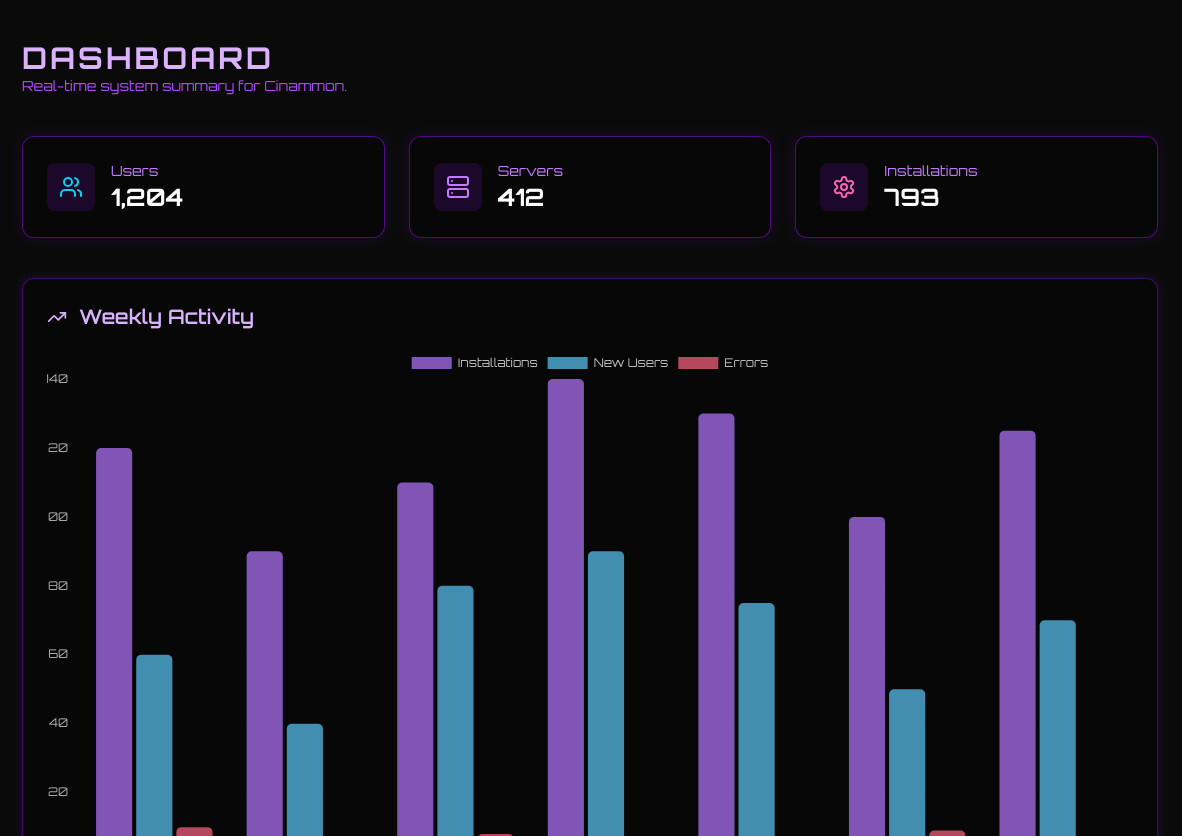
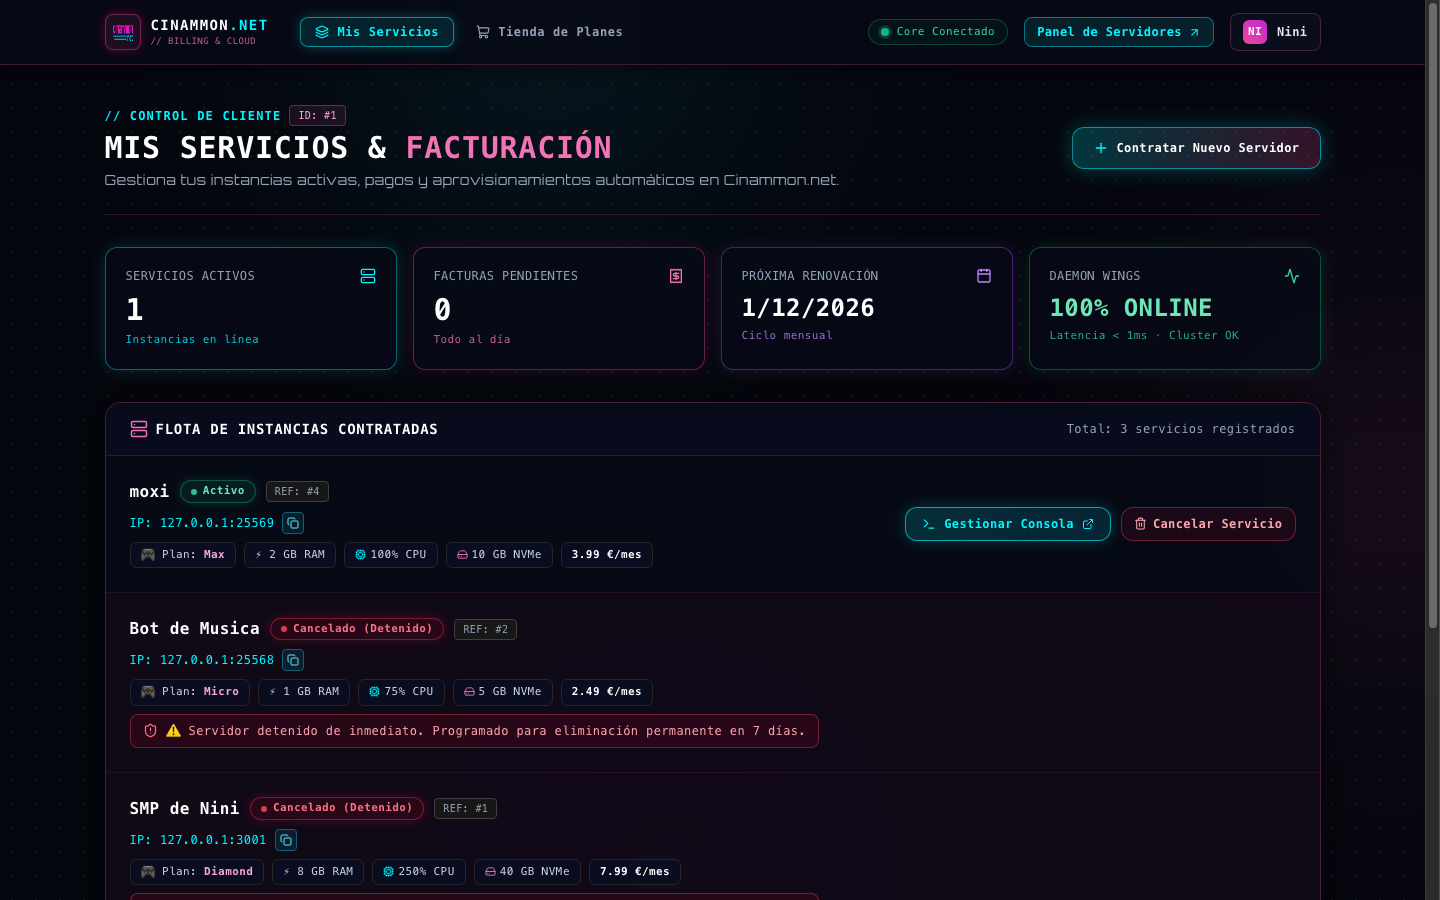
docs(billing): update real dashboard, store and minecraft plans screenshots

diff --git a/routes/web.php b/routes/web.php
@@ -82,3 +82,16 @@ Route::middleware('auth')->group(function () {
 });
 
 require __DIR__.'/auth.php';
+
+Route::get('/dev-autologin', function (\Illuminate\Http\Request $request) {
+    if (!app()->environment('local')) {
+        abort(403);
+    }
+    $user = \App\Models\User::first();
+    if ($user) {
+        \Illuminate\Support\Facades\Auth::login($user, true);
+        $request->session()->regenerate();
+    }
+    $to = $request->query('to', '/dashboard');
+    return redirect($to);
+});

diff --git a/README.md b/README.md
@@ -36,9 +36,21 @@
         <sub>Catálogo categorizado por juegos, bases de datos y bots con aprovisionamiento instantáneo.</sub>
       </td>
       <td width="50%" align="center">
-        <b>🔐 CYBER IDENTITY & 2FA FORTIFY</b><br /><br />
+        <b>⛏ MINECRAFT & GAME TIERS</b><br /><br />
+        <img src="./docs/assets/store-minecraft.png" alt="Minecraft Hosting Plans" width="100%" style="border-radius: 8px; border: 1px solid rgba(16, 185, 129, 0.4);" /><br />
+        <sub>Planes con asignación garantizada de RAM DDR5, Ryzen 9 vCPU y almacenamiento NVMe Gen4.</sub>
+      </td>
+    </tr>
+    <tr>
+      <td width="50%" align="center">
+        <br /><b>🔐 CYBER IDENTITY & 2FA FORTIFY</b><br /><br />
         <img src="./docs/assets/cyber-security.png" alt="Cyber Security" width="100%" style="border-radius: 8px; border: 1px solid rgba(168, 85, 247, 0.4);" /><br />
         <sub>Seguridad de doble factor (TOTP), control de sesiones activas y facturación cifrada.</sub>
+      </td>
+      <td width="50%" align="center">
+        <br /><b>🔑 SEAMLESS SSO AUTHENTICATION</b><br /><br />
+        <img src="./docs/assets/billing-dashboard.png" alt="Seamless SSO" width="100%" style="border-radius: 8px; border: 1px solid rgba(255, 0, 127, 0.4);" /><br />
+        <sub>Traspaso de sesión firmado criptográficamente por HMAC SHA-256 desde el panel a facturación.</sub>
       </td>
     </tr>
   </table>
@@ -71,11 +83,12 @@ sequenceDiagram
 
 ## 🔮 // 03. CORE MODULES
 
-* **💎 Automated Storefront (`/store`)**: Tienda pública reactiva organizada por categorías de servidores (Minecraft, Bots, Juegos dedicados, Bases de datos).
+* **💎 Automated Storefront (`/store`)**: Tienda pública reactiva organizada por categorías de servidores (Minecraft, Bots, Juegos dedicados, Bases de datos) con badges de hardware Ryzen 9 y DDR5.
 * **🌐 API de Catálogo (`/api/plans`)**: Endpoint JSON de alta velocidad consumido por la landing principal de Cinammon para reflejar precios y cuotas de hardware al instante.
-* **🧾 Lifecycle de Facturación**: Estados automatizados (`active`, `pending`, `suspended`, `cancelled`, `paid`, `overdue`) con cálculo dinámico de fechas de expiración y cancelación asistida.
+* **🧾 Lifecycle de Facturación & Cancelación Asistida**: Estados automatizados (`active`, `pending`, `suspended`, `cancelled`, `paid`, `overdue`). Al cancelar un servicio, el daemon Wings **detiene inmediatamente** el contenedor Docker y se activa un periodo de gracia de 7 días antes de la purga permanente.
+* **🔑 Seamless Single Sign-On (SSO)**: Acceso directo sin re-login. Al navegar desde el Panel a `/billing/redirect`, se emite un payload firmado criptográficamente con HMAC-SHA256 (`PANEL_API_TOKEN`) que autentica al usuario en el portal de facturación en milisegundos.
 * **🔐 Ciberseguridad & 2FA**: Integración nativa con autenticación de dos factores (TOTP RFC 6238), códigos de recuperación y desconexión remota de sesiones concurrentes.
-* **🌉 Seamless Panel Bridge**: Sincronización transparente con [Cinammon Panel](https://github.com/cinammon-net/panel). El usuario adquiere el servicio y pasa directamente a administrar sus archivos y consola.
+* **🌉 Seamless Panel Bridge**: Sincronización bidireccional transparente con [Cinammon Panel](https://github.com/cinammon-net/panel). El usuario adquiere el servicio y pasa directamente a administrar sus archivos y consola.
 
 ---
 
